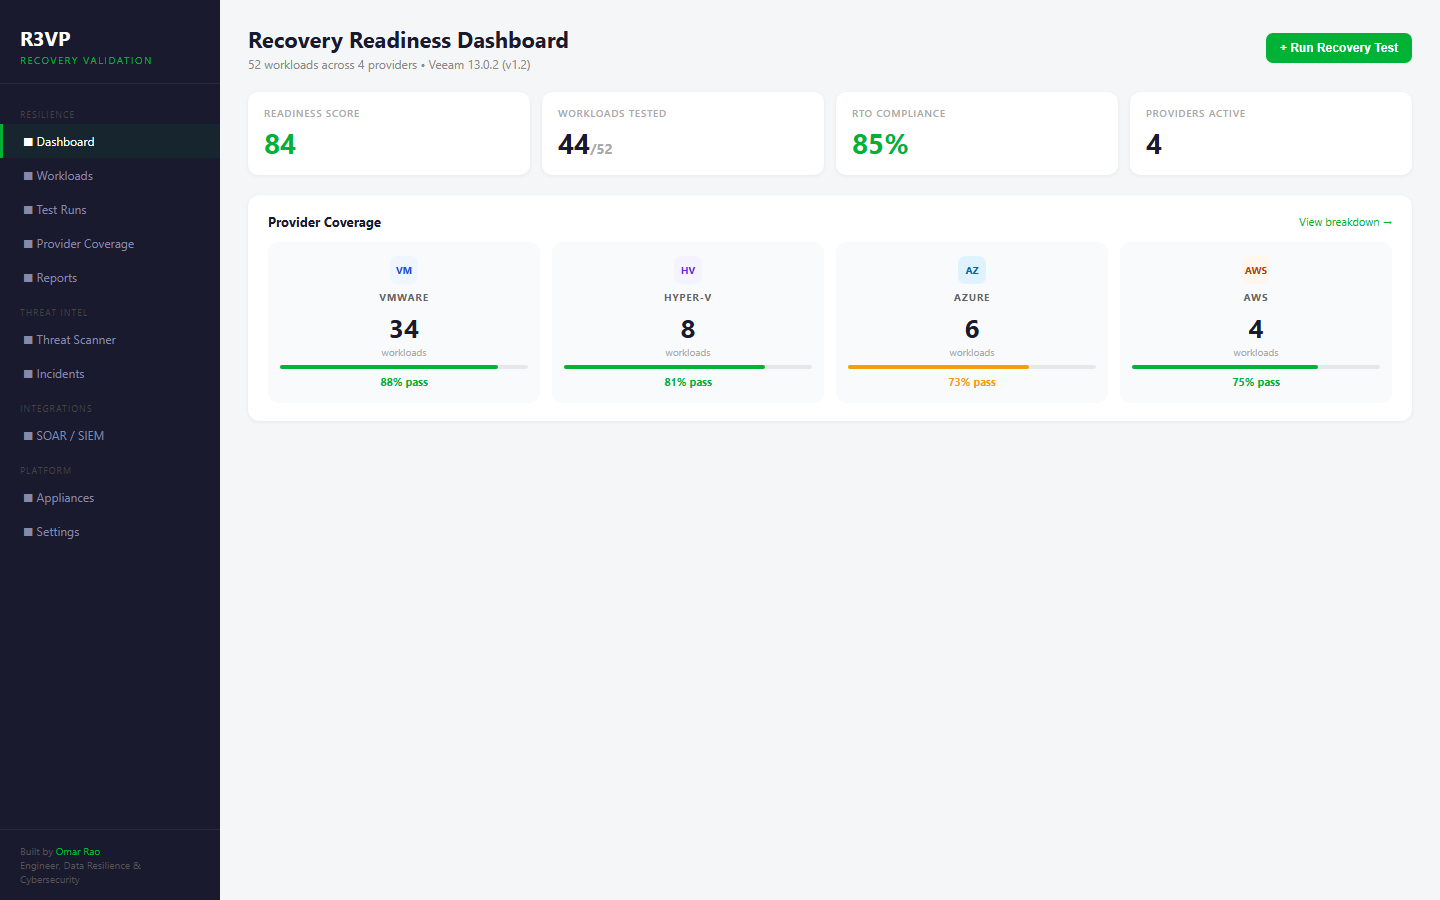
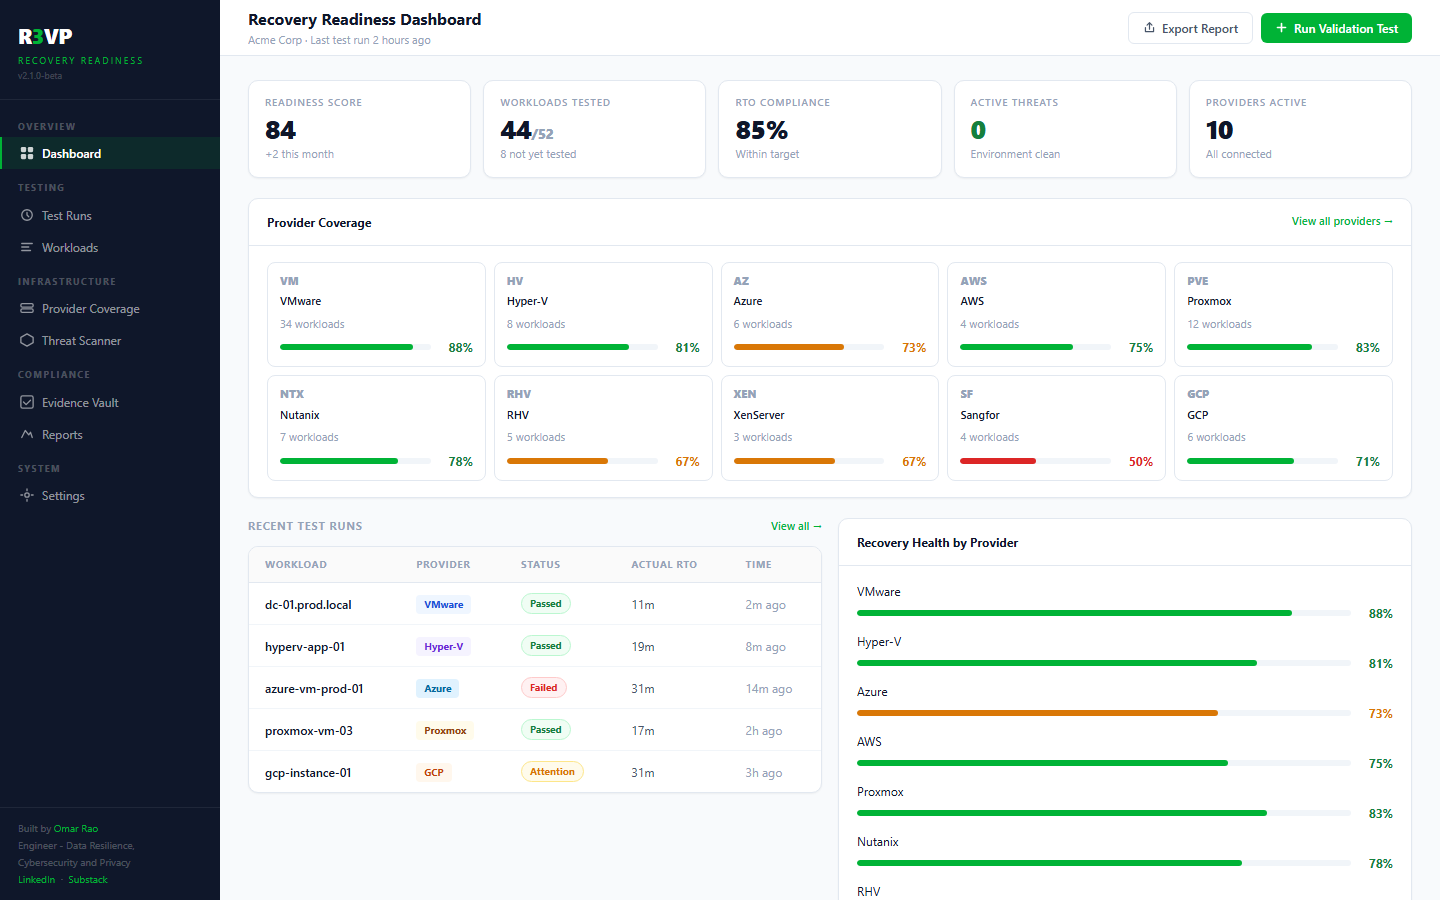
UI: recapture providers.png and multicloud-dashboard.png with light theme
Replace old dark-theme screenshots with light theme versions captured
from the updated mockup HTML files. Update README descriptions to
reflect 10-provider tabbed interface and full dashboard feature set.

diff --git a/README.md b/README.md
@@ -151,17 +151,17 @@ The threat scanner shows all findings from the signature database cross-referenc
 
 The incidents page tracks the full automated incident response workflow: threat detection to pre-incident backup to SOAR/SIEM dispatch to SecOps notification. Every step is timestamped and shows dispatch confirmation from each integration.
 
-### Multi-Cloud Provider Breakdown
+### Multi-Cloud Provider Coverage
 
 ![Providers](docs/screenshots/providers.png)
 
-The providers page shows recovery test coverage and pass rates for every configured cloud platform. Each provider card shows workload count, total test runs, pass rate bar, and average actual RTO. Providers not yet configured show as inactive, prompting connection.
+The providers page uses a tabbed interface with one tab per provider. Each tab shows workload count, test run totals, average RTO, pass rate, recent test run history, and protocol and authentication details for that connector. The Veeam B&R version support matrix at the bottom shows which API features are available per Veeam release.
 
-### Multi-Cloud Dashboard Widget
+### Recovery Readiness Dashboard
 
 ![Multi-cloud Dashboard](docs/screenshots/multicloud-dashboard.png)
 
-The main dashboard gains a Provider Coverage row showing all four providers at a glance. Workload counts and pass rates update in real time as tests complete.
+The main dashboard shows all 10 providers in a coverage grid with pass rate bars, a recent test runs table with per-provider chips, and a recovery health panel with bars for every platform. The Run Validation Test button opens a modal with a workflow diagram and configuration form.
 
 ---
 